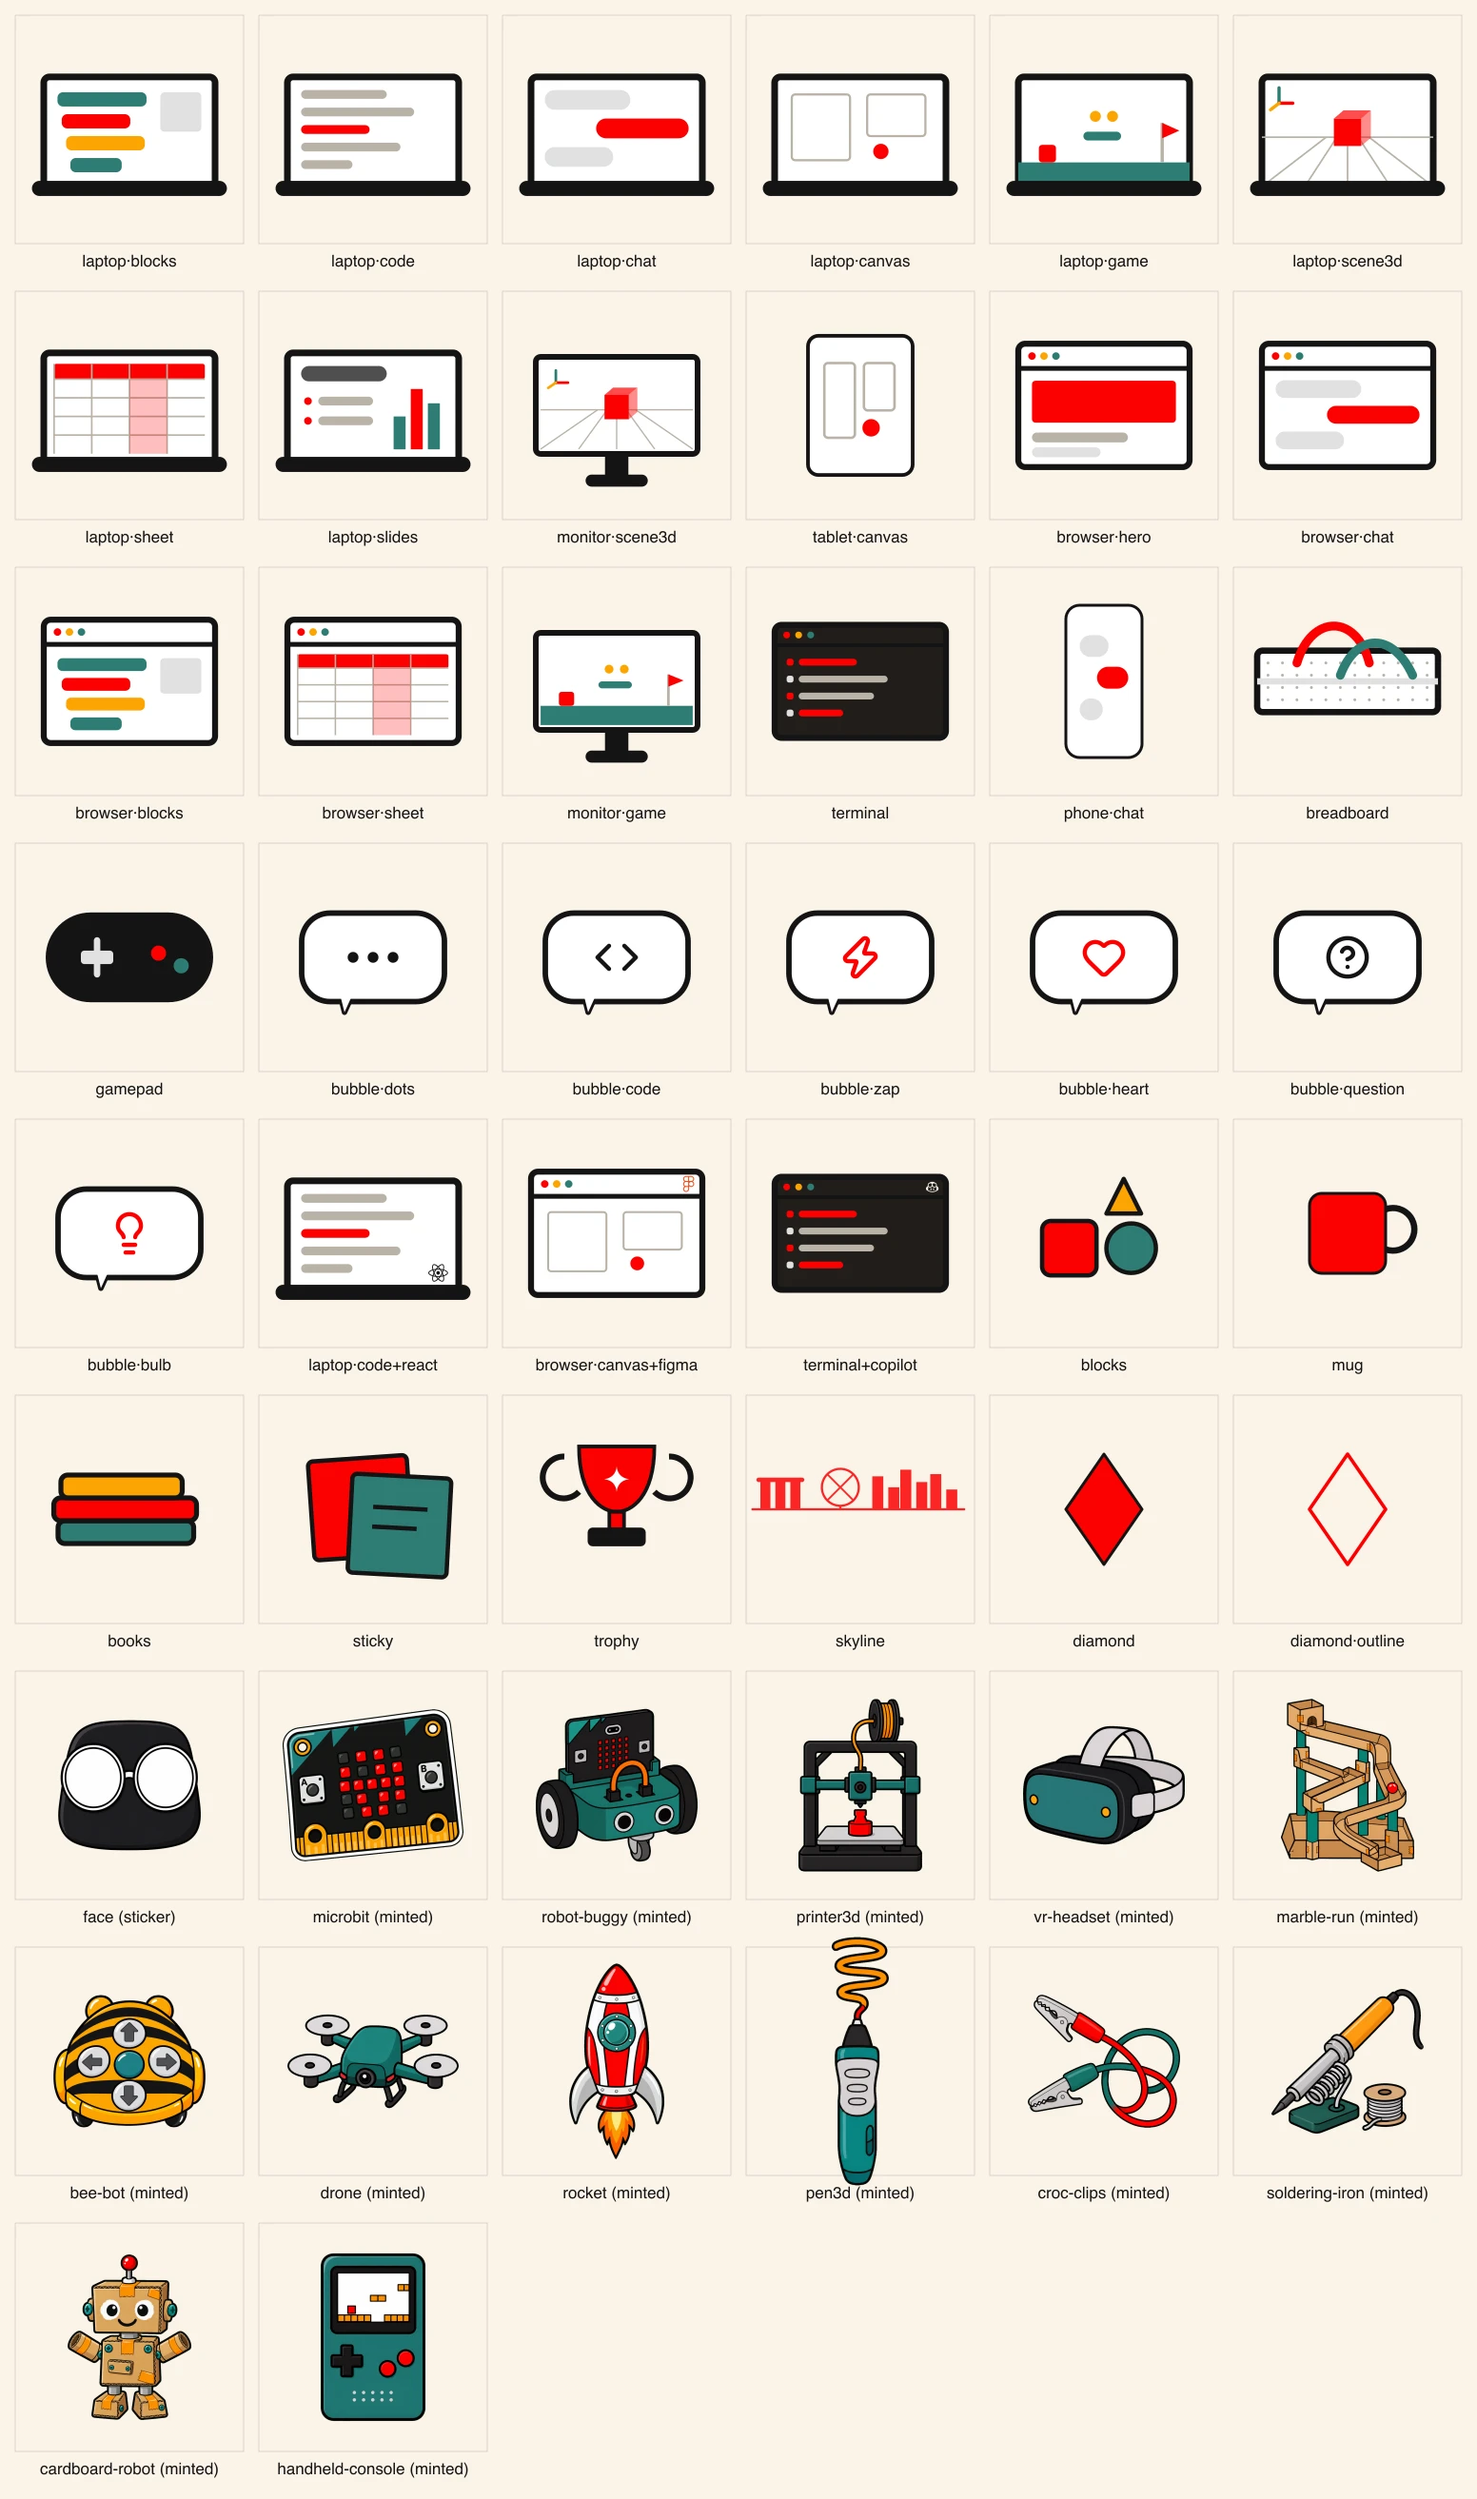
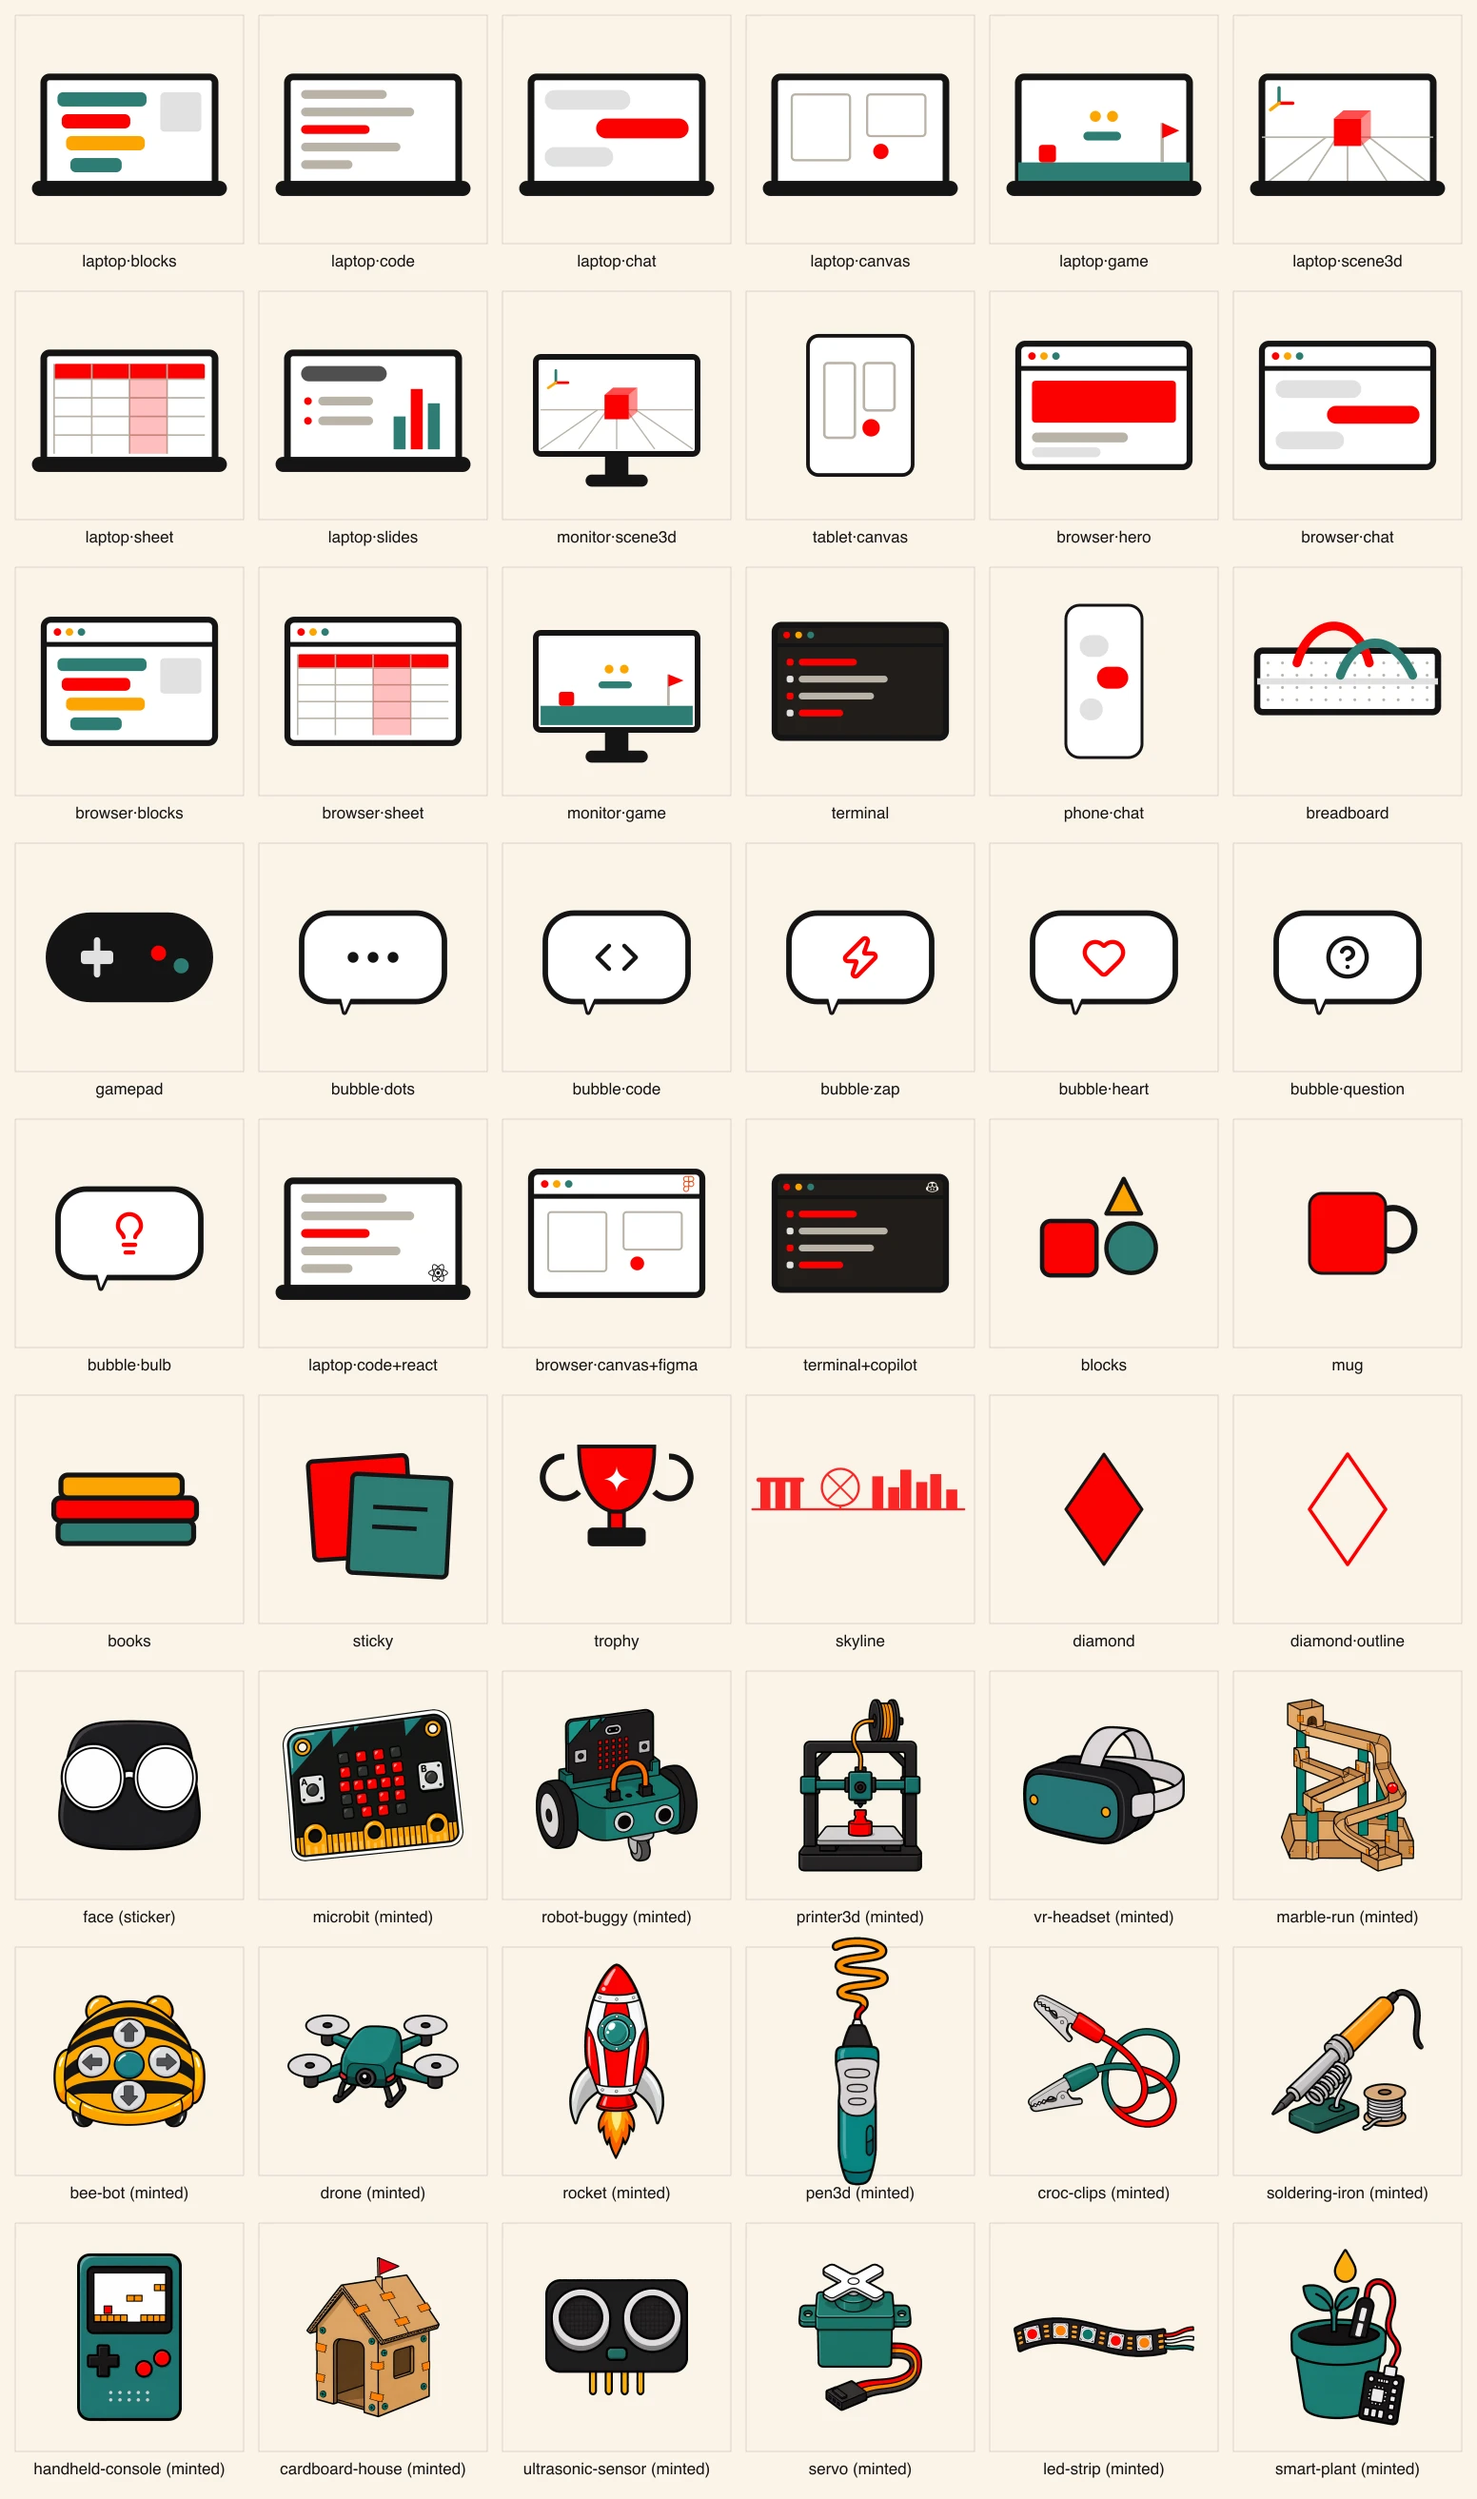
Swap cardboard-robot for cardboard-house; mint ElecFreaks kit props from gethacking.com stock
cardboard-robot removed (competing character next to the mascot). New
minted props: cardboard-house (Makedo replacement, no face),
ultrasonic-sensor (HC-SR04 goggles), servo (SG90 with cross horn),
led-strip (lit WS2812B segment), smart-plant (soil-moisture sensor pot,
ElecFreaks Smart Agriculture) — subjects taken from actual gethacking.com
micro:bit/Tinker Kit stock.

Claude-Session: https://claude.ai/code/session_0179E3eAQXJ3uzsNQh5mBGxN

diff --git a/reference/stickers/props/README.md b/reference/stickers/props/README.md
@@ -20,11 +20,15 @@ new files.
 | `pen3d` | 3D-printing art pen drawing a plastic squiggle (3D Pen Art) |
 | `croc-clips` | Crocodile-clip test leads (micro:bit projects) |
 | `soldering-iron` | Iron on stand with solder spool (High Tech Maker) |
-| `cardboard-robot` | Kid-made cardboard box robot (Makedo / Cardboard Creation) |
 | `handheld-console` | Retro handheld running a pixel platformer (MakeCode Arcade) |
+| `cardboard-house` | Kid-made cardboard playhouse with fastener screws (Makedo / Cardboard Creation) |
+| `ultrasonic-sensor` | HC-SR04-style ultrasonic distance sensor (Tinker Kit robotics) |
+| `servo` | Mini hobby servo with cross horn and ribbon wires (Tinker Kit) |
+| `led-strip` | Addressable LED strip segment, lit (Tinker Kit / smart kits) |
+| `smart-plant` | Potted seedling with soil-moisture sensor (ElecFreaks Smart Agriculture) |
 
 Round-2 subjects were derived from the TT Curriculum drive (Bee-Bot, Tello
 drones, Space Camp, 3D Pen Art, High Tech Maker, Makedo, MakeCode Arcade).
-Shortlist for the next round: battery-pack, servo motor, robot arm (RPA),
+Round-3 subjects came from gethacking.com stock (ElecFreaks smart kits, Tinker Kit). Shortlist for the next round: battery-pack, robot arm (RPA),
 KTANE-style defusal box (Digital Making), blockchain cubes, sensor modules.
 Process a new batch with `python3 scripts/banner/process-mint.py <dir> <names>`.
